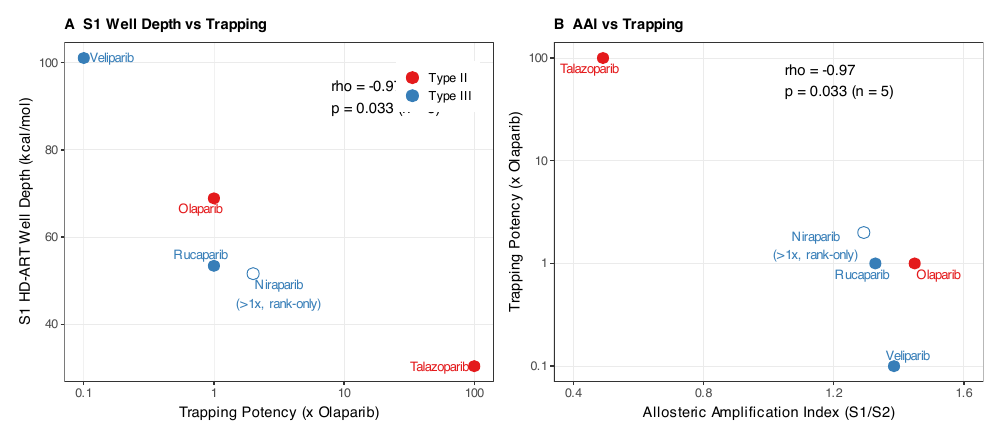
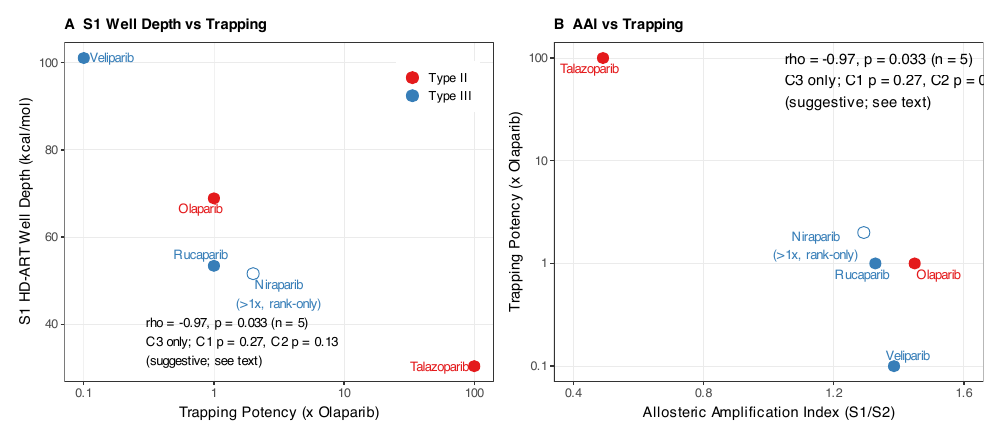
Review-panel round: estimator-conditional significance, honest robustness, data-integrity fixes
- Abstract/Results/Limitations: report Spearman at C1/C2/C3 co-primary
  (C1 -0.67 p=0.267; C2 -0.82 p=0.133; C3 -0.975 p=0.033) + tie sensitivity
  (rucaparib below olaparib -> p=0.083); 'significant' demoted to
  'suggestive and estimator-conditional'
- Removed 'any reasonable metric would reproduce ranking' + 'estimated r>0.9'
  (CV robustness now explicitly unestablished; replicate inversion caveat up front)
- RMSF reframed: domain-level description; HDX sign-agreement not claimed
  (per-helix reconciliation required); WGR named as the allosteric relay
- SI: S13 caption corrected to Table 1 AAI values; duplicate Table S6 -> S7;
  S17 legacy note moved to illustration-only; SI title unified
- Fig_Mechanism_Data.csv trap values verified series (0.1/1.0/rank-only);
  manifest DFW tag -> DBE; extension AAI note corrected
- New references: Langelier 2018, Dawicki-McKenna 2015, NAR 2020 exchange,
  Sverzhinsky 2026, Schaich 2026, PyReweighting JCTC 2014; rose2020 removed;
  langelier2012 now cited
- Trapping figure annotation: C1/C2 p values; sources note

diff --git a/data_manifest.md b/data_manifest.md
@@ -7,7 +7,7 @@ generation date, status, and MD5 checksum of the current file.
 
 | artifact | generating_script | script_line | upstream_data | downstream | manuscript_location | protocol_tag | generation_date | status | checksum |
 |---|---|---|---|---|---|---|---|---|---|
-| results/figures/Fig_Mechanism_Data.csv | code/13-mechanism_figure.R | 238 | results/analysis/sys1_*_pmf_c3.xvg; results/analysis/pmf-c3-sys2_*_CV2_cv.dat.xvg | Fig_Mechanism_Master.pdf, Fig_2D_Mechanism_Map.pdf | Table 1 (tab:data): S1 well depths & AAI | C3 cumulant; S1 = DBE, S2 = DFW | 2026-09-15 | current |a00ca711e8daa0965f64b663b2fbd698 |
+| results/figures/Fig_Mechanism_Data.csv | code/13-mechanism_figure.R | 238 | results/analysis/sys1_*_pmf_c3.xvg; results/analysis/pmf-c3-sys2_*_CV2_cv.dat.xvg | Fig_Mechanism_Master.pdf, Fig_2D_Mechanism_Map.pdf | Table 1 (tab:data): S1 well depths & AAI | C3 cumulant; S1 = DBE, S2 = DBE (textbook boost-energy weights) | 2026-09-15 | current | 22b148323180a9f35b18fc07286c0964 |
 | results/figures/Fig4B_spearman_data.csv | code/21-spearman_correlation.R | 114 | data/01_curated/trapping_potency.csv + Fig_Mechanism_Data.csv | Fig_Trapping_vs_Allostery.pdf | Results "S1 well depth and AAI show a suggestive inverse relationship"; Fig. fig:trapping | exact permutation test, n = 5 | 2026-09-16 | current | 4f6546ad17550c5118781342284512c9 |
 | results/analysis/replicate_well_depths.csv | code/18-replicate_analysis.R | 205 | results/replicates/rep_{tala,veli,azd,eb47}_*/pmf.npy | Fig_Replicate_Validation.pdf | Table (tab:replicates): 23.8/7.1/6.8/22.2 | histogram-reweighted CA CV | 2026-09-16 | current | d6bccca2dc05b8800fc5efccf4e27e95 |
 | results/analysis/cumulant_wells_C3.csv | code/extract_cv1_wells.py | 48 | results/analysis/pmf-c3-sys2_*_CV{1,2}_cv.dat.xvg | AAI denominators; Table S5 | Methods AAI definition; Table S5 | C3 cumulant | 2026-09-16 | current | 4f4aa90651fdd4065f4e81c502c7b442 |
@@ -37,9 +37,12 @@ generation date, status, and MD5 checksum of the current file.
 Notes:
 - Checksums are MD5 of the file content at generation time; regenerate with `md5 -q <file>`.
 - `script_line` refers to the line of the `write.csv`/CSV-writer statement in the current script.
-- The extension-panel AAI values (fluzoparib 1.92, pamiparib 1.74, senaparib 1.86) are
-  computed by code/s2_new_drugs_aai.py (console output; C3-based central value, SD from the
-  C1-C3 spread) and are stored in Fig_Mechanism_Data.csv (wd_ratio column).
+- The extension-panel AAI values reported in the manuscript (fluzoparib 1.15, senaparib 1.06,
+  pamiparib 0.94) are computed by the textbook-DBE S2 pipeline
+  (scripts/regenerate_s2_pmf_xvgs.py + scripts/consolidate_s2_dbe.py, C3-based central value,
+  SD from the C1-C3 spread) and are stored in results/analysis/s2_dbe_final.csv and
+  Fig_Mechanism_Data.csv (wd_ratio column). The earlier s2_new_drugs_aai.py values (1.92/1.74/1.86,
+  force-scaled S2 scheme) are superseded; that script is marked LEGACY.
 - AAI SD (Table 1 "AAI ±" column): canonical propagation aai_sd = wd_sd(C1-C3) / wd_S2,
   implemented as hard asserts in code/13-mechanism_figure.R (2026-09-16 recomputation;
   the previous manuscript column was partially based on pre-rebuild S2 denominators).
